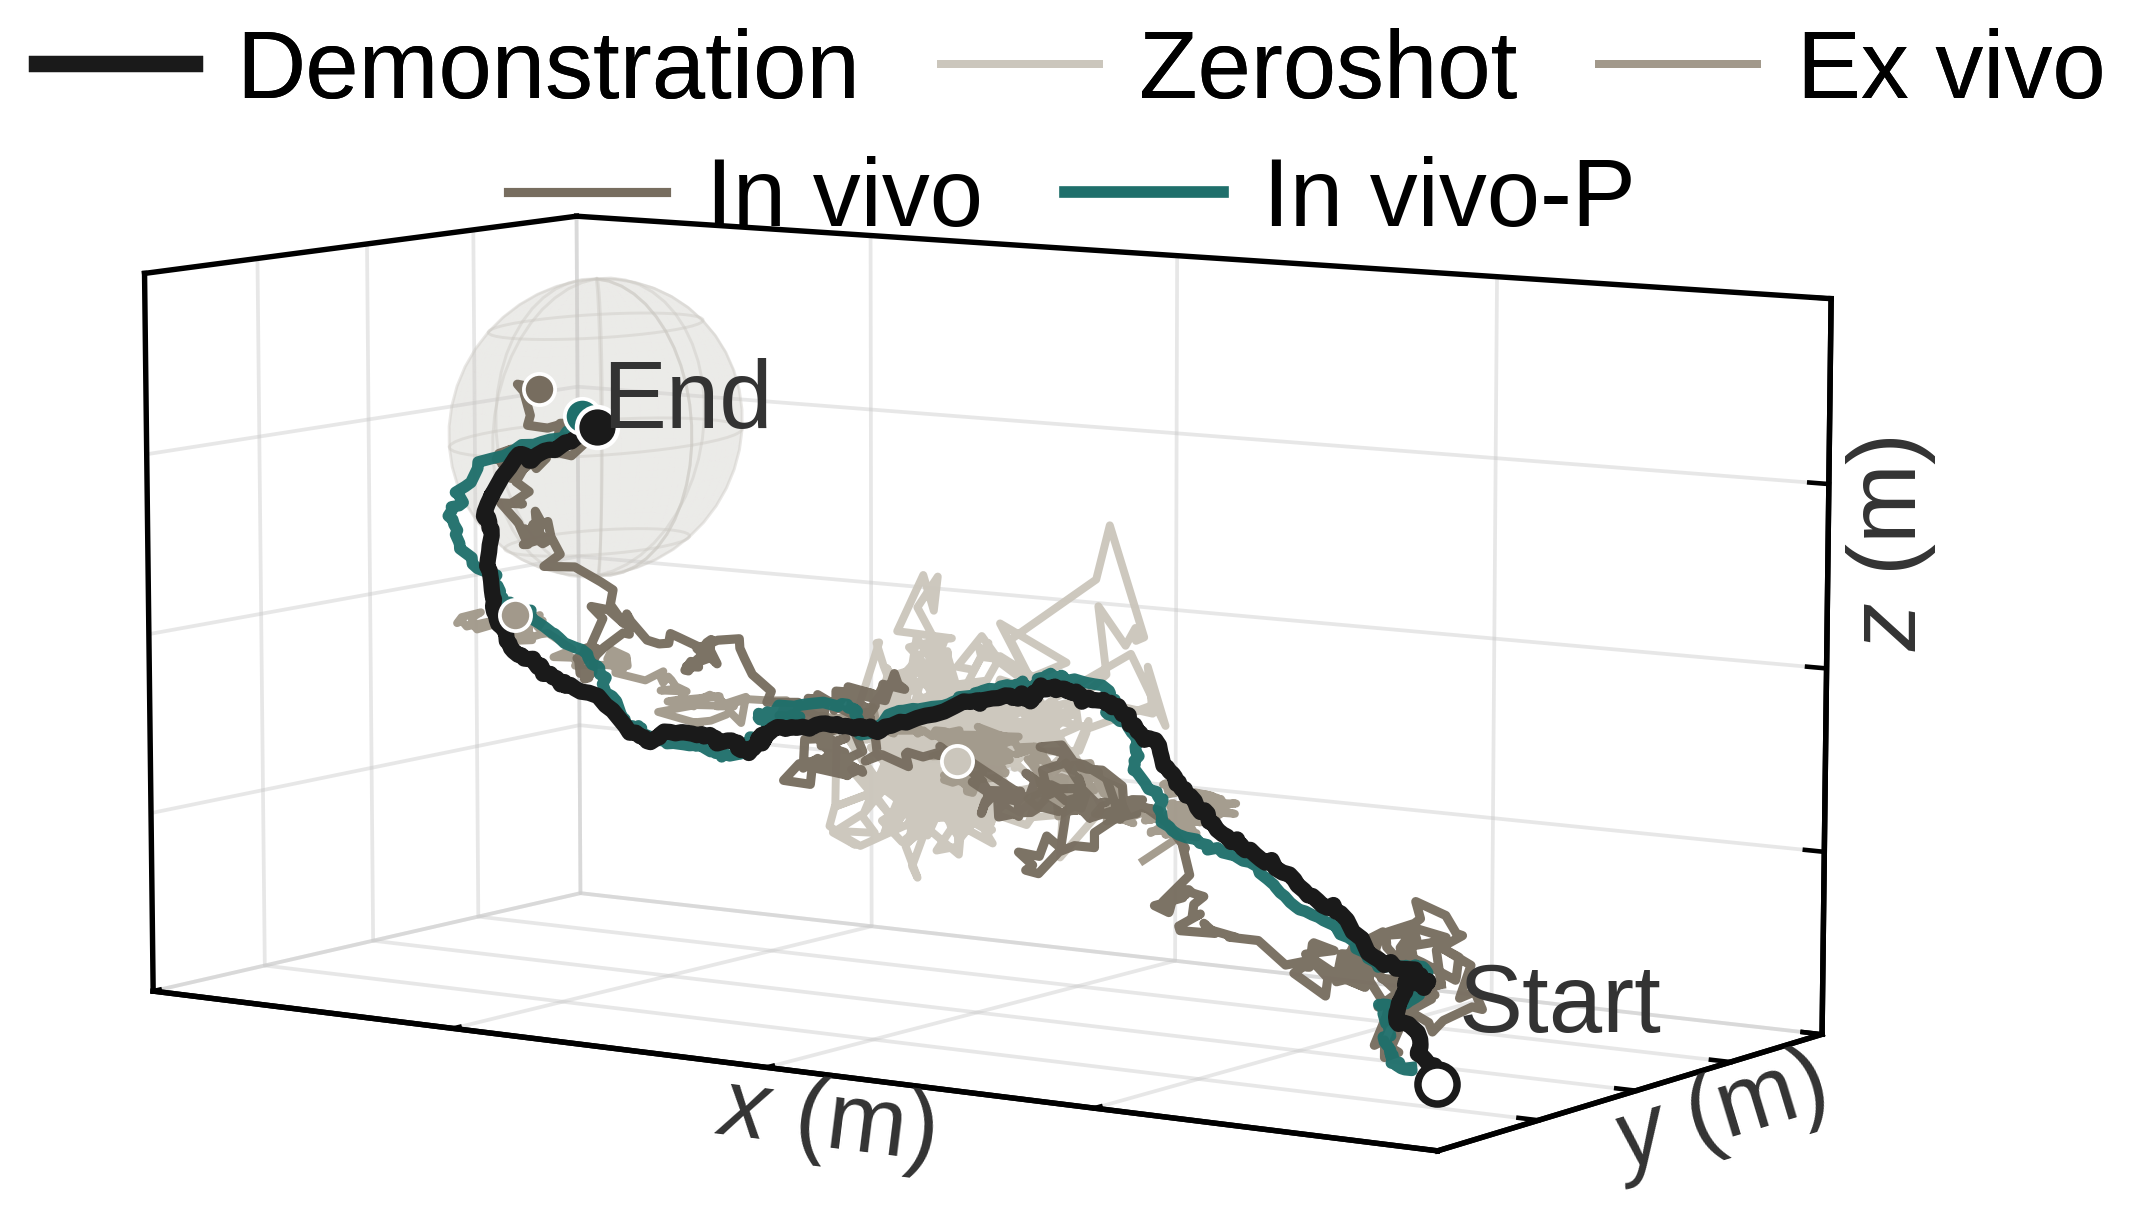
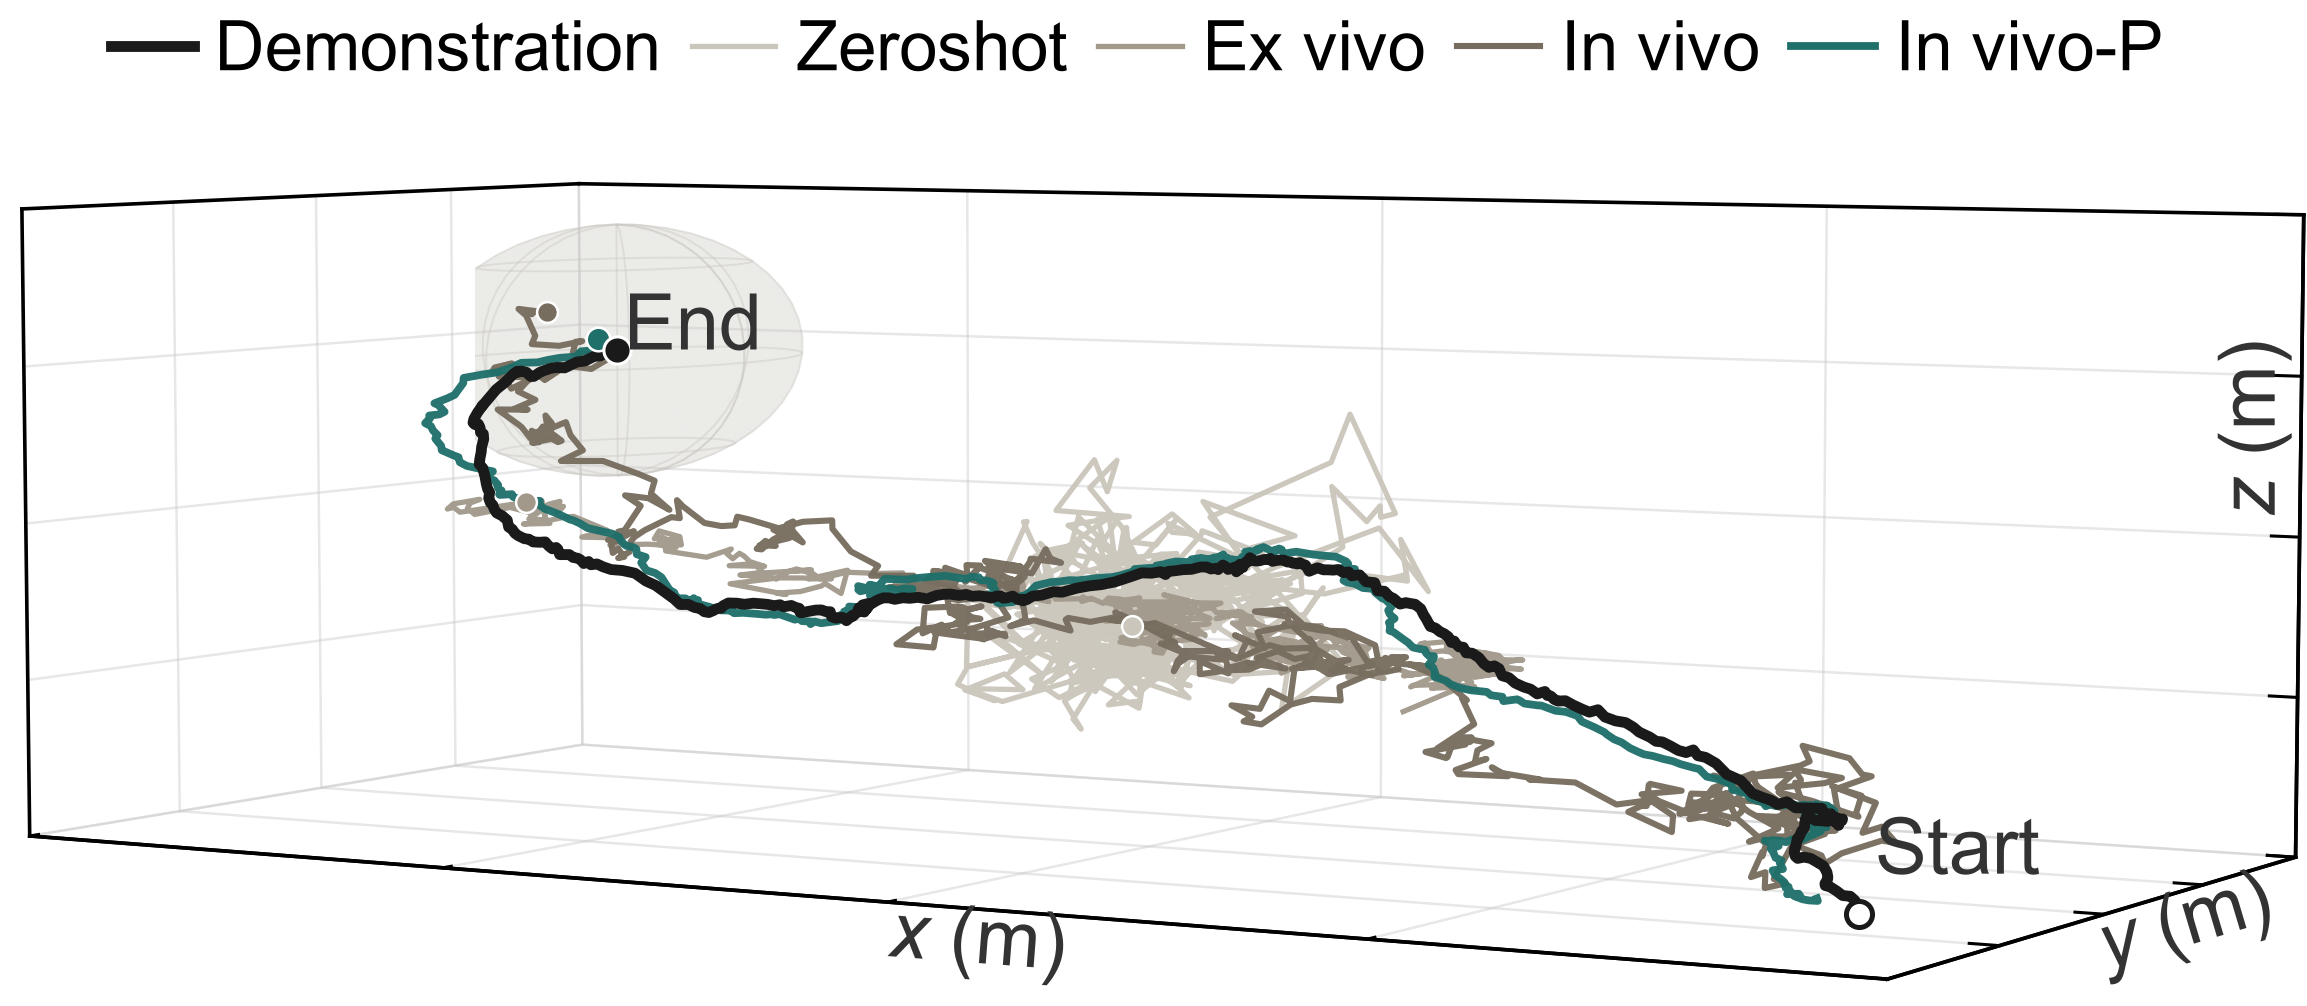
Update publication figures and plotting layout

diff --git a/scripts/figures/figure_bde_tissue_motion_actionx_velocity.py b/scripts/figures/figure_bde_tissue_motion_actionx_velocity.py
@@ -1,0 +1,191 @@
+"""Draw tissue motion and Action-X/phase velocity in one Matplotlib figure.
+
+Unlike image concatenation, both panels are rendered onto axes owned by the
+same Figure and are written by a single ``savefig`` call.
+
+Example:
+    python -m scripts.figures.figure_bde_tissue_motion_actionx_velocity --trial 17
+"""
+
+from __future__ import annotations
+
+import argparse
+from pathlib import Path
+
+import matplotlib.pyplot as plt
+from matplotlib.patches import Patch
+
+from . import figure_b_tissue_motion as tissue
+from . import figure_de_actionx_phase_velocity as action_velocity
+from . import figure_e_actionx_pairwise as actionx
+
+
+TRIAL_IDS = tissue.TRIAL_IDS
+DEFAULT_TRIAL = tissue.DEFAULT_TRIAL_ID
+FIG_WIDTH = 7.25
+FIG_HEIGHT = 3.72
+
+# Absolute layout in inches.  Keeping these values physical makes the spacing
+# stable when DPI changes and leaves independent room for the upper phase
+# brackets and the lower panel's two legend rows.
+LEFT_IN = 0.69
+RIGHT_IN = 0.14
+# Pull the upper panel down so the inter-panel whitespace is one third
+# smaller, while leaving both axes and the lower legend rows unchanged.
+TOP_AX_BOTTOM_IN = 2.48
+TOP_AX_HEIGHT_IN = 0.72
+BOTTOM_AX_BOTTOM_IN = 0.50
+BOTTOM_AX_HEIGHT_IN = 1.22
+LOWER_LEGEND_ROW1_Y_IN = 2.20
+LOWER_LEGEND_ROW2_Y_IN = 2.02
+
+
+def render(
+    trial_id: int,
+    output: Path,
+    *,
+    model: str = tissue.DEFAULT_MODEL,
+    fps: float = tissue.DEFAULT_FPS,
+    k: float = 0.03,
+    dpi: int = 600,
+    palette: str = action_velocity.DEFAULT_PALETTE,
+    caption: bool = False,
+) -> None:
+    """Render both panels natively into one figure and save it once."""
+    motion = tissue.load_motion(trial_id, model=model, fps=fps)
+    pairs = actionx.load_trial_pairs(trial_id, k=k)
+    duration_s = actionx.video_duration_s(trial_id)
+    steps = min(len(pairs[0][1]), min(len(prediction) for _, _, prediction in pairs))
+    spans = action_velocity.load_phase_spans(trial_id, steps=steps)
+    action_velocity.apply_palette(palette)
+
+    fig = plt.figure(figsize=(FIG_WIDTH, FIG_HEIGHT), facecolor="white")
+    axes_width = 1.0 - (LEFT_IN + RIGHT_IN) / FIG_WIDTH
+    left = LEFT_IN / FIG_WIDTH
+    top_ax = fig.add_axes(
+        [left, TOP_AX_BOTTOM_IN / FIG_HEIGHT, axes_width, TOP_AX_HEIGHT_IN / FIG_HEIGHT]
+    )
+    bottom_ax = fig.add_axes(
+        [left, BOTTOM_AX_BOTTOM_IN / FIG_HEIGHT, axes_width, BOTTOM_AX_HEIGHT_IN / FIG_HEIGHT]
+    )
+
+    top_ax.plot(
+        motion.time_s,
+        motion.motion,
+        color=tissue.MOTION_COLOR,
+        linewidth=1.9,
+        solid_capstyle="round",
+        zorder=4,
+    )
+    tissue.style_axis(top_ax, motion)
+    tissue.draw_phase_arrows(top_ax, motion)
+    top_ax.legend(
+        handles=[
+            Patch(
+                facecolor=tissue.BG_INHALATION,
+                edgecolor="none",
+                alpha=tissue.BG_ALPHA,
+                label="Inspiration",
+            ),
+            Patch(
+                facecolor=tissue.BG_EXHALATION,
+                edgecolor="none",
+                alpha=tissue.BG_ALPHA,
+                label="Expiration",
+            ),
+        ],
+        loc="upper right",
+        bbox_to_anchor=(0.988, 0.985),
+        frameon=True,
+        facecolor="white",
+        edgecolor="#B8B8B8",
+        framealpha=0.92,
+        fontsize=tissue.FONT_SIZE,
+        handlelength=1.15,
+        handleheight=0.75,
+        handletextpad=0.4,
+        borderaxespad=0.0,
+        labelspacing=0.3,
+        borderpad=0.3,
+    )
+
+    action_velocity.draw_panel(
+        bottom_ax,
+        pairs,
+        duration_s,
+        spans,
+        caption=caption,
+    )
+    legend_kwargs = dict(
+        loc="upper center",
+        frameon=False,
+        handletextpad=0.34,
+        columnspacing=0.8,
+        borderaxespad=0.0,
+    )
+    fig.legend(
+        handles=action_velocity.curve_legend_handles(),
+        bbox_to_anchor=(0.5, LOWER_LEGEND_ROW1_Y_IN / FIG_HEIGHT),
+        ncol=5,
+        handlelength=1.5,
+        **legend_kwargs,
+    )
+    bar_handles = action_velocity.bar_legend_handles()
+    fig.legend(
+        handles=bar_handles,
+        bbox_to_anchor=(0.5, LOWER_LEGEND_ROW2_Y_IN / FIG_HEIGHT),
+        ncol=len(bar_handles),
+        handlelength=1.3,
+        **legend_kwargs,
+    )
+
+    output.parent.mkdir(parents=True, exist_ok=True)
+    fig.savefig(output, dpi=dpi, bbox_inches="tight", pad_inches=0.03, facecolor="white")
+    plt.close(fig)
+    print(f"Saved: {output}")
+
+
+def output_for_trial(trial_id: int, output: Path | None, multiple: bool) -> Path:
+    if output is None:
+        return tissue.trial_outputs_dir(trial_id) / "figure_BDE_tissue_motion_actionx_velocity.png"
+    if output.suffix:
+        return output if not multiple else output.with_stem(f"{output.stem}_{trial_id}")
+    return output / f"figure_BDE_tissue_motion_actionx_velocity_{trial_id}.png"
+
+
+def parse_args() -> argparse.Namespace:
+    parser = argparse.ArgumentParser(description=__doc__)
+    parser.add_argument("--trial", type=int, choices=TRIAL_IDS, default=DEFAULT_TRIAL)
+    parser.add_argument("--all", action="store_true", help="plot all trial ids")
+    parser.add_argument("--model", default=tissue.DEFAULT_MODEL)
+    parser.add_argument("--fps", type=float, default=tissue.DEFAULT_FPS)
+    parser.add_argument("--k", type=float, default=0.03, help="chunk fusion decay")
+    parser.add_argument("--dpi", type=int, default=600)
+    parser.add_argument("--caption", action="store_true")
+    parser.add_argument(
+        "--palette",
+        choices=sorted(action_velocity.PALETTES),
+        default=action_velocity.DEFAULT_PALETTE,
+    )
+    parser.add_argument("--output", type=Path, default=None)
+    return parser.parse_args()
+
+
+def main() -> None:
+    args = parse_args()
+    trial_ids = TRIAL_IDS if args.all else (args.trial,)
+    for trial_id in trial_ids:
+        render(
+            trial_id,
+            output_for_trial(trial_id, args.output, multiple=len(trial_ids) > 1),
+            model=args.model,
+            fps=args.fps,
+            k=args.k,
+            dpi=args.dpi,
+            palette=args.palette,
+            caption=args.caption,
+        )
+
+
+if __name__ == "__main__":
+    main()

diff --git a/scripts/figures/figure_c_3d_trajectories.py b/scripts/figures/figure_c_3d_trajectories.py
@@ -82,13 +82,19 @@ COLORS = {
 # A low camera keeps the box floor almost edge-on, which is what used to eat
 # the lower-left corner as an empty wedge.  The trajectory still runs from the
 # lower right up to the left, leaving the upper-right quadrant clear.
-DEFAULT_ELEV = 8.0
-DEFAULT_AZIM = -56.0
+DEFAULT_ELEV = 4.5
+DEFAULT_AZIM = -60.0
 LINEWIDTHS = {"GT": 1.95, "zeroshot": 0.95, "AB": 0.95, "ABC": 1.1, "ABCP": 1.4}
 
-# The panel is 8.8 in wide, so what reads as a comfortable size here is larger
-# than the 8.5 pt figure_DE uses on its 7 in canvas.
-FONT_SIZE = 11.5
+# Native output aspect ratio is one third wider than the former cropped PNG
+# (2130 x 1220).  Saving the complete canvas keeps this ratio deterministic
+# without stretching the rendered bitmap or distorting the 3D data box.
+FIG_WIDTH = 5.85
+FIG_HEIGHT = 3.35
+
+# The panel is wide, so what reads as a comfortable size here is larger than
+# the 8.5 pt figure_DE uses on its 7 in canvas.
+FONT_SIZE = 14.0
 
 # The tolerance sphere is centred on the demonstration endpoint and its radius
 # is the In vivo endpoint error, so it borrows that model's colour and follows
@@ -183,8 +189,9 @@ def style_3d_axes(ax: plt.Axes, trajectories: list[np.ndarray]) -> None:
 
     # Box dimensions proportional to data spans preserve equal physical scale
     # per action unit; the floor keeps shorter axes readable without flattening z.
-    box = spans / spans.max()
-    ax.set_box_aspect(np.maximum(box, 0.48))
+    box = np.maximum(spans / spans.max(), 0.48)
+    box[:2] *= 1.55
+    ax.set_box_aspect(box, zoom=1.75)
     ax.set_facecolor("white")
     for axis in (ax.xaxis, ax.yaxis, ax.zaxis):
         axis.set_major_locator(MaxNLocator(nbins=4))
@@ -246,6 +253,7 @@ def draw_black_box_silhouette(ax: plt.Axes) -> None:
             color="black",
             lw=0.65,
             zorder=0.5,
+            clip_on=False,
         )
 
 
@@ -388,7 +396,7 @@ def add_view_aligned_axis_labels(
     )
     z_axis_anchor = z_axis_start + 0.67 * (z_axis_end - z_axis_start)
     z_rotation = 90.0
-    z_offset = np.array([0.035, 0.0])
+    z_offset = np.array([-0.035, 0.0])
 
     label_specs = (
         (x_axis_anchor, labels[0], x_offset, x_rotation),
@@ -708,9 +716,11 @@ def plot(
             )
         trajectories[label] = fuse_chunks(chunks, k=k)
 
-    fig = plt.figure(figsize=(8.8, 3.05))
+    fig = plt.figure(figsize=(FIG_WIDTH, FIG_HEIGHT))
     ax = fig.add_subplot(111, projection="3d", computed_zorder=False)
-    ax.set_position([0.015, 0.02, 0.97, 0.84])
+    # Keep a narrow safety inset so the projected black box silhouette remains
+    # fully inside the export even after tight whitespace cropping.
+    ax.set_position([0.02, 0.025, 0.96, 0.82])
 
     # Endpoint tolerance sphere: its radius is the ABC endpoint error, so ABC
     # lies on the boundary and better/worse endpoints fall inside/outside.
@@ -752,6 +762,7 @@ def plot(
         lw=LINEWIDTHS["GT"],
         label="Demonstration",
         zorder=10,
+        clip_on=False,
     )
     for label, trajectory in trajectories.items():
         ax.plot(
@@ -761,6 +772,7 @@ def plot(
             label=DISPLAY_LABELS[label],
             alpha=0.96,
             zorder=5 if label == "ABCP" else 3,
+            clip_on=False,
         )
         ax.scatter(
             *trajectory[-1, :3],
@@ -770,12 +782,13 @@ def plot(
             linewidth=0.45,
             depthshade=False,
             zorder=11,
+            clip_on=False,
         )
 
     ax.scatter(*gt[0], color="white", edgecolor=COLORS["GT"], linewidth=0.9,
-               s=22, marker="o", depthshade=False, zorder=12)
+               s=22, marker="o", depthshade=False, zorder=12, clip_on=False)
     ax.scatter(*gt[-1], color=COLORS["GT"], edgecolor="white", linewidth=0.55,
-               s=24, marker="o", depthshade=False, zorder=12)
+               s=24, marker="o", depthshade=False, zorder=12, clip_on=False)
     ax.text(*(gt[-1] + np.array([0.00018, -0.00005, 0.00002])), "End", fontsize=FONT_SIZE, color="#333333", zorder=13)
     ax.set_xlabel("")
     ax.set_ylabel("")
@@ -813,34 +826,24 @@ def plot(
     legend_kwargs = dict(
         loc="upper center",
         frameon=False,
-        handlelength=1.65,
-        handletextpad=0.42,
-        columnspacing=0.85,
+        fontsize=12.5,
+        handlelength=1.2,
+        handletextpad=0.3,
+        columnspacing=0.45,
         borderaxespad=0.0,
     )
-    # Two rows rather than one: at 11.5 pt a single row of five entries is the
-    # widest thing on the canvas and stretches the whole figure.  Split 3 + 2
-    # with two separate legends -- one legend with ncol=3 would fill column by
-    # column and scramble the model order.
-    first_row = fig.legend(
-        handles=handles[:3],
-        bbox_to_anchor=(0.52, 0.875),
-        ncol=3,
-        **legend_kwargs,
-    )
-    fig.add_artist(first_row)
     fig.legend(
-        handles=handles[3:],
-        bbox_to_anchor=(0.52, 0.805),
-        ncol=2,
+        handles=handles,
+        bbox_to_anchor=(0.5, 0.915),
+        ncol=5,
         **legend_kwargs,
     )
     fig.subplots_adjust(left=0.005, right=0.99, bottom=0.01, top=0.99)
 
     output.parent.mkdir(parents=True, exist_ok=True)
-    fig.savefig(output, dpi=dpi, bbox_inches="tight", pad_inches=0.01)
+    fig.savefig(output, dpi=dpi, facecolor="white")
     plt.close(fig)
-    trim_png_whitespace(output)
+    trim_png_whitespace(output, padding=20)
     print(f"Saved: {output}")
     if interactive_output is not None:
         save_interactive_plot(gt, trajectories, interactive_output)

diff --git a/scripts/run_figures.py b/scripts/run_figures.py
@@ -20,6 +20,7 @@ MODULES = {
     "C": "scripts.figures.figure_c_3d_trajectories",
     "D": "scripts.figures.figure_d_motion_phase_velocity",
     "DE": "scripts.figures.figure_de_actionx_phase_velocity",
+    "BDE": "scripts.figures.figure_bde_tissue_motion_actionx_velocity",
     "E": "scripts.figures.figure_e_actionx_pairwise",
     "CE": "scripts.figures.figure_ce_trajectory_actionx_1x2",
 }
